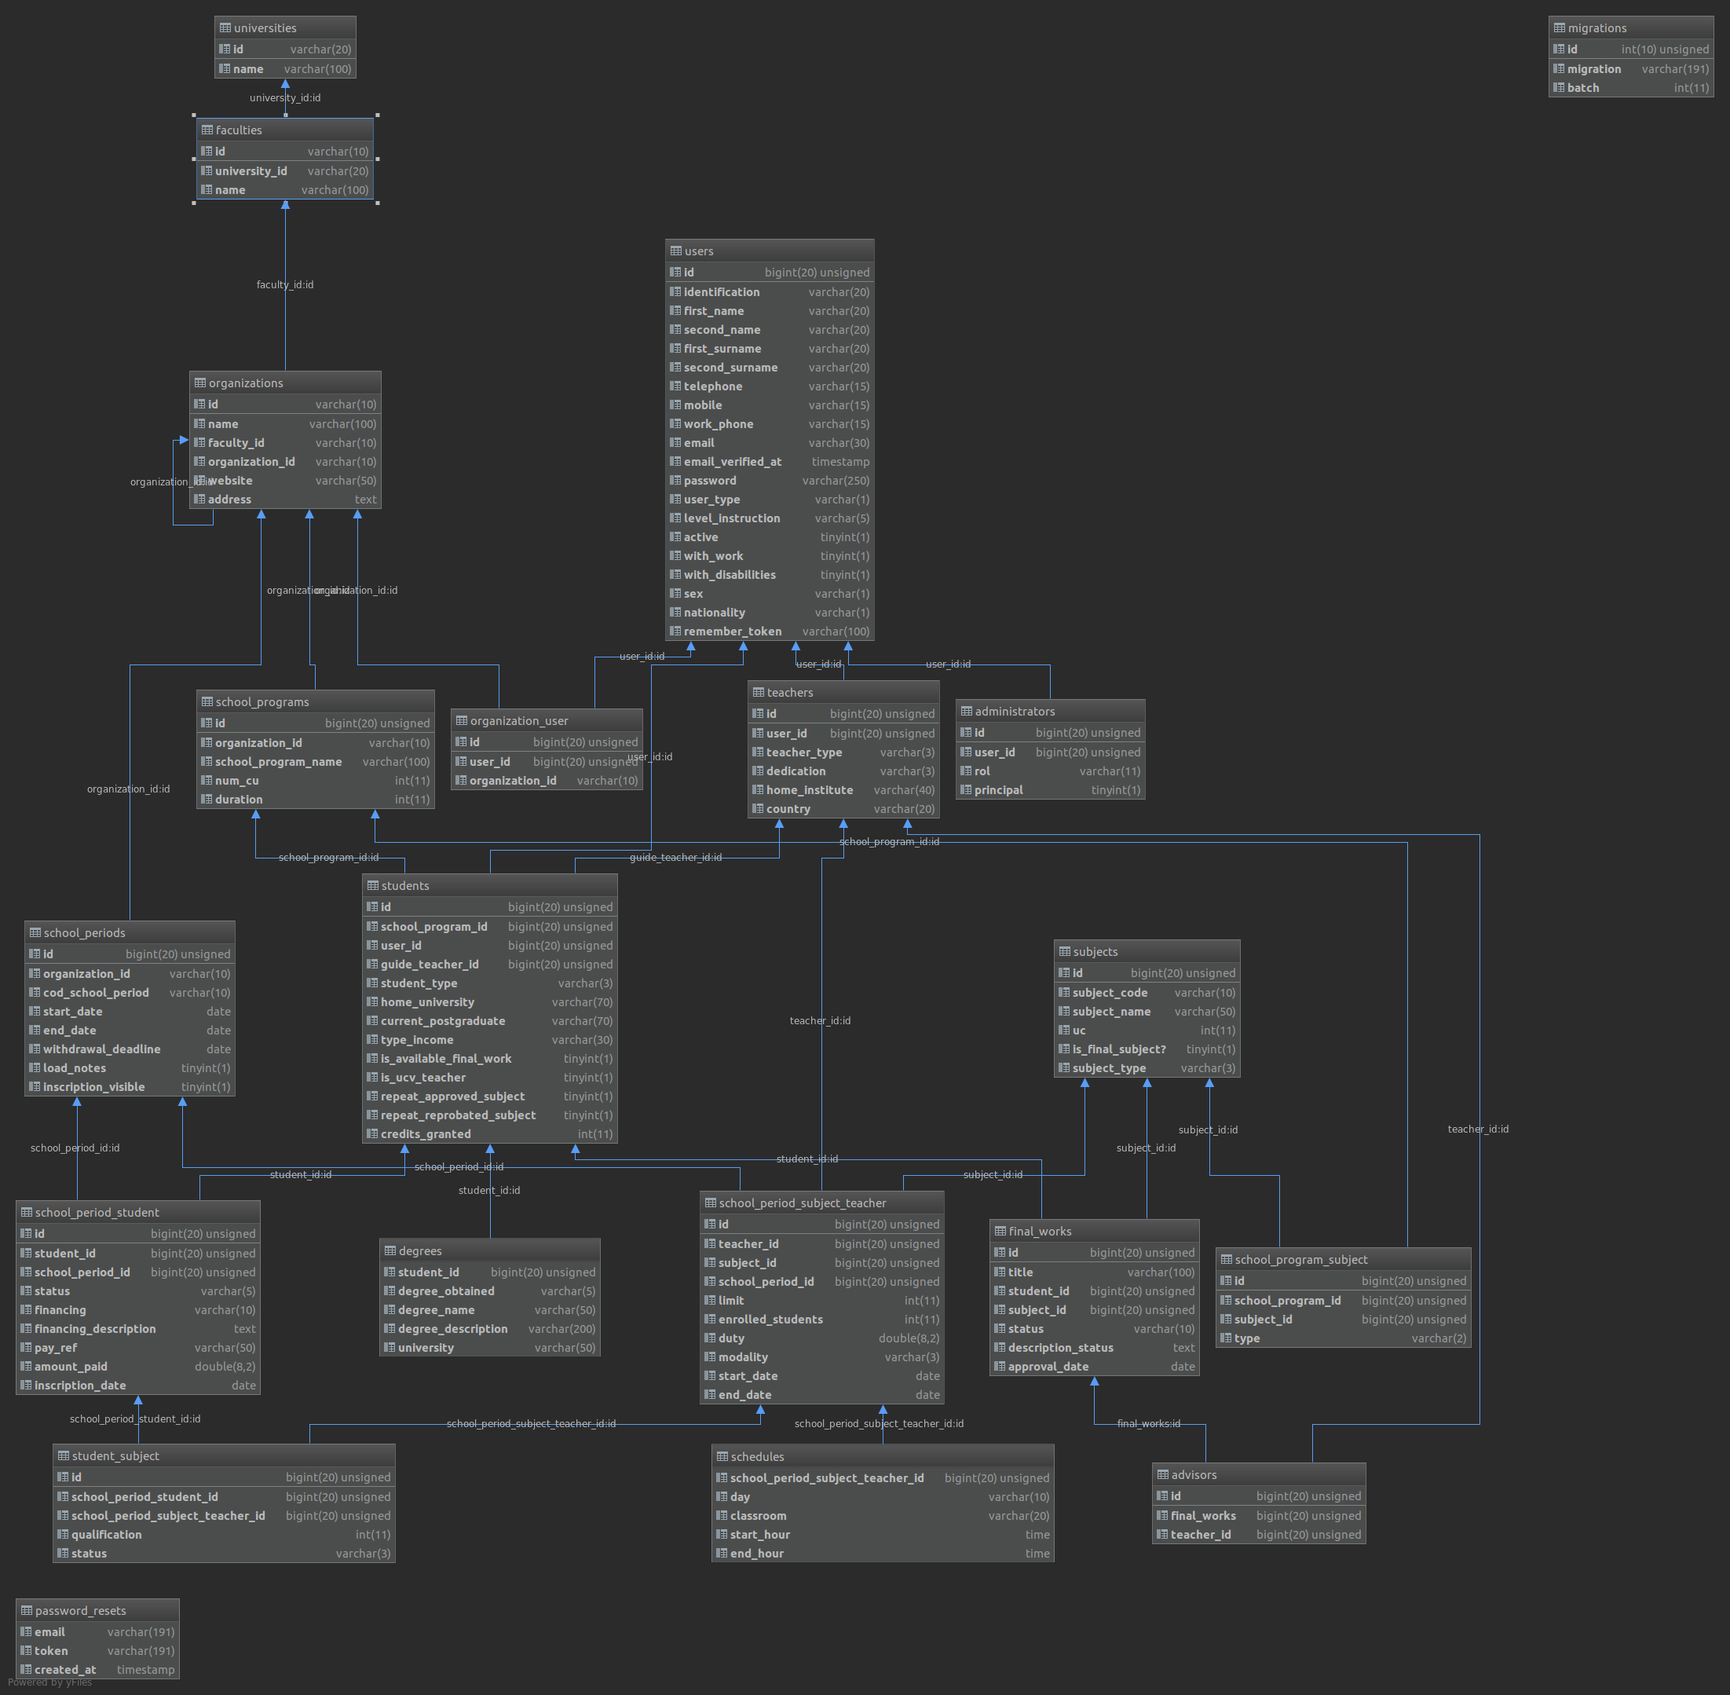
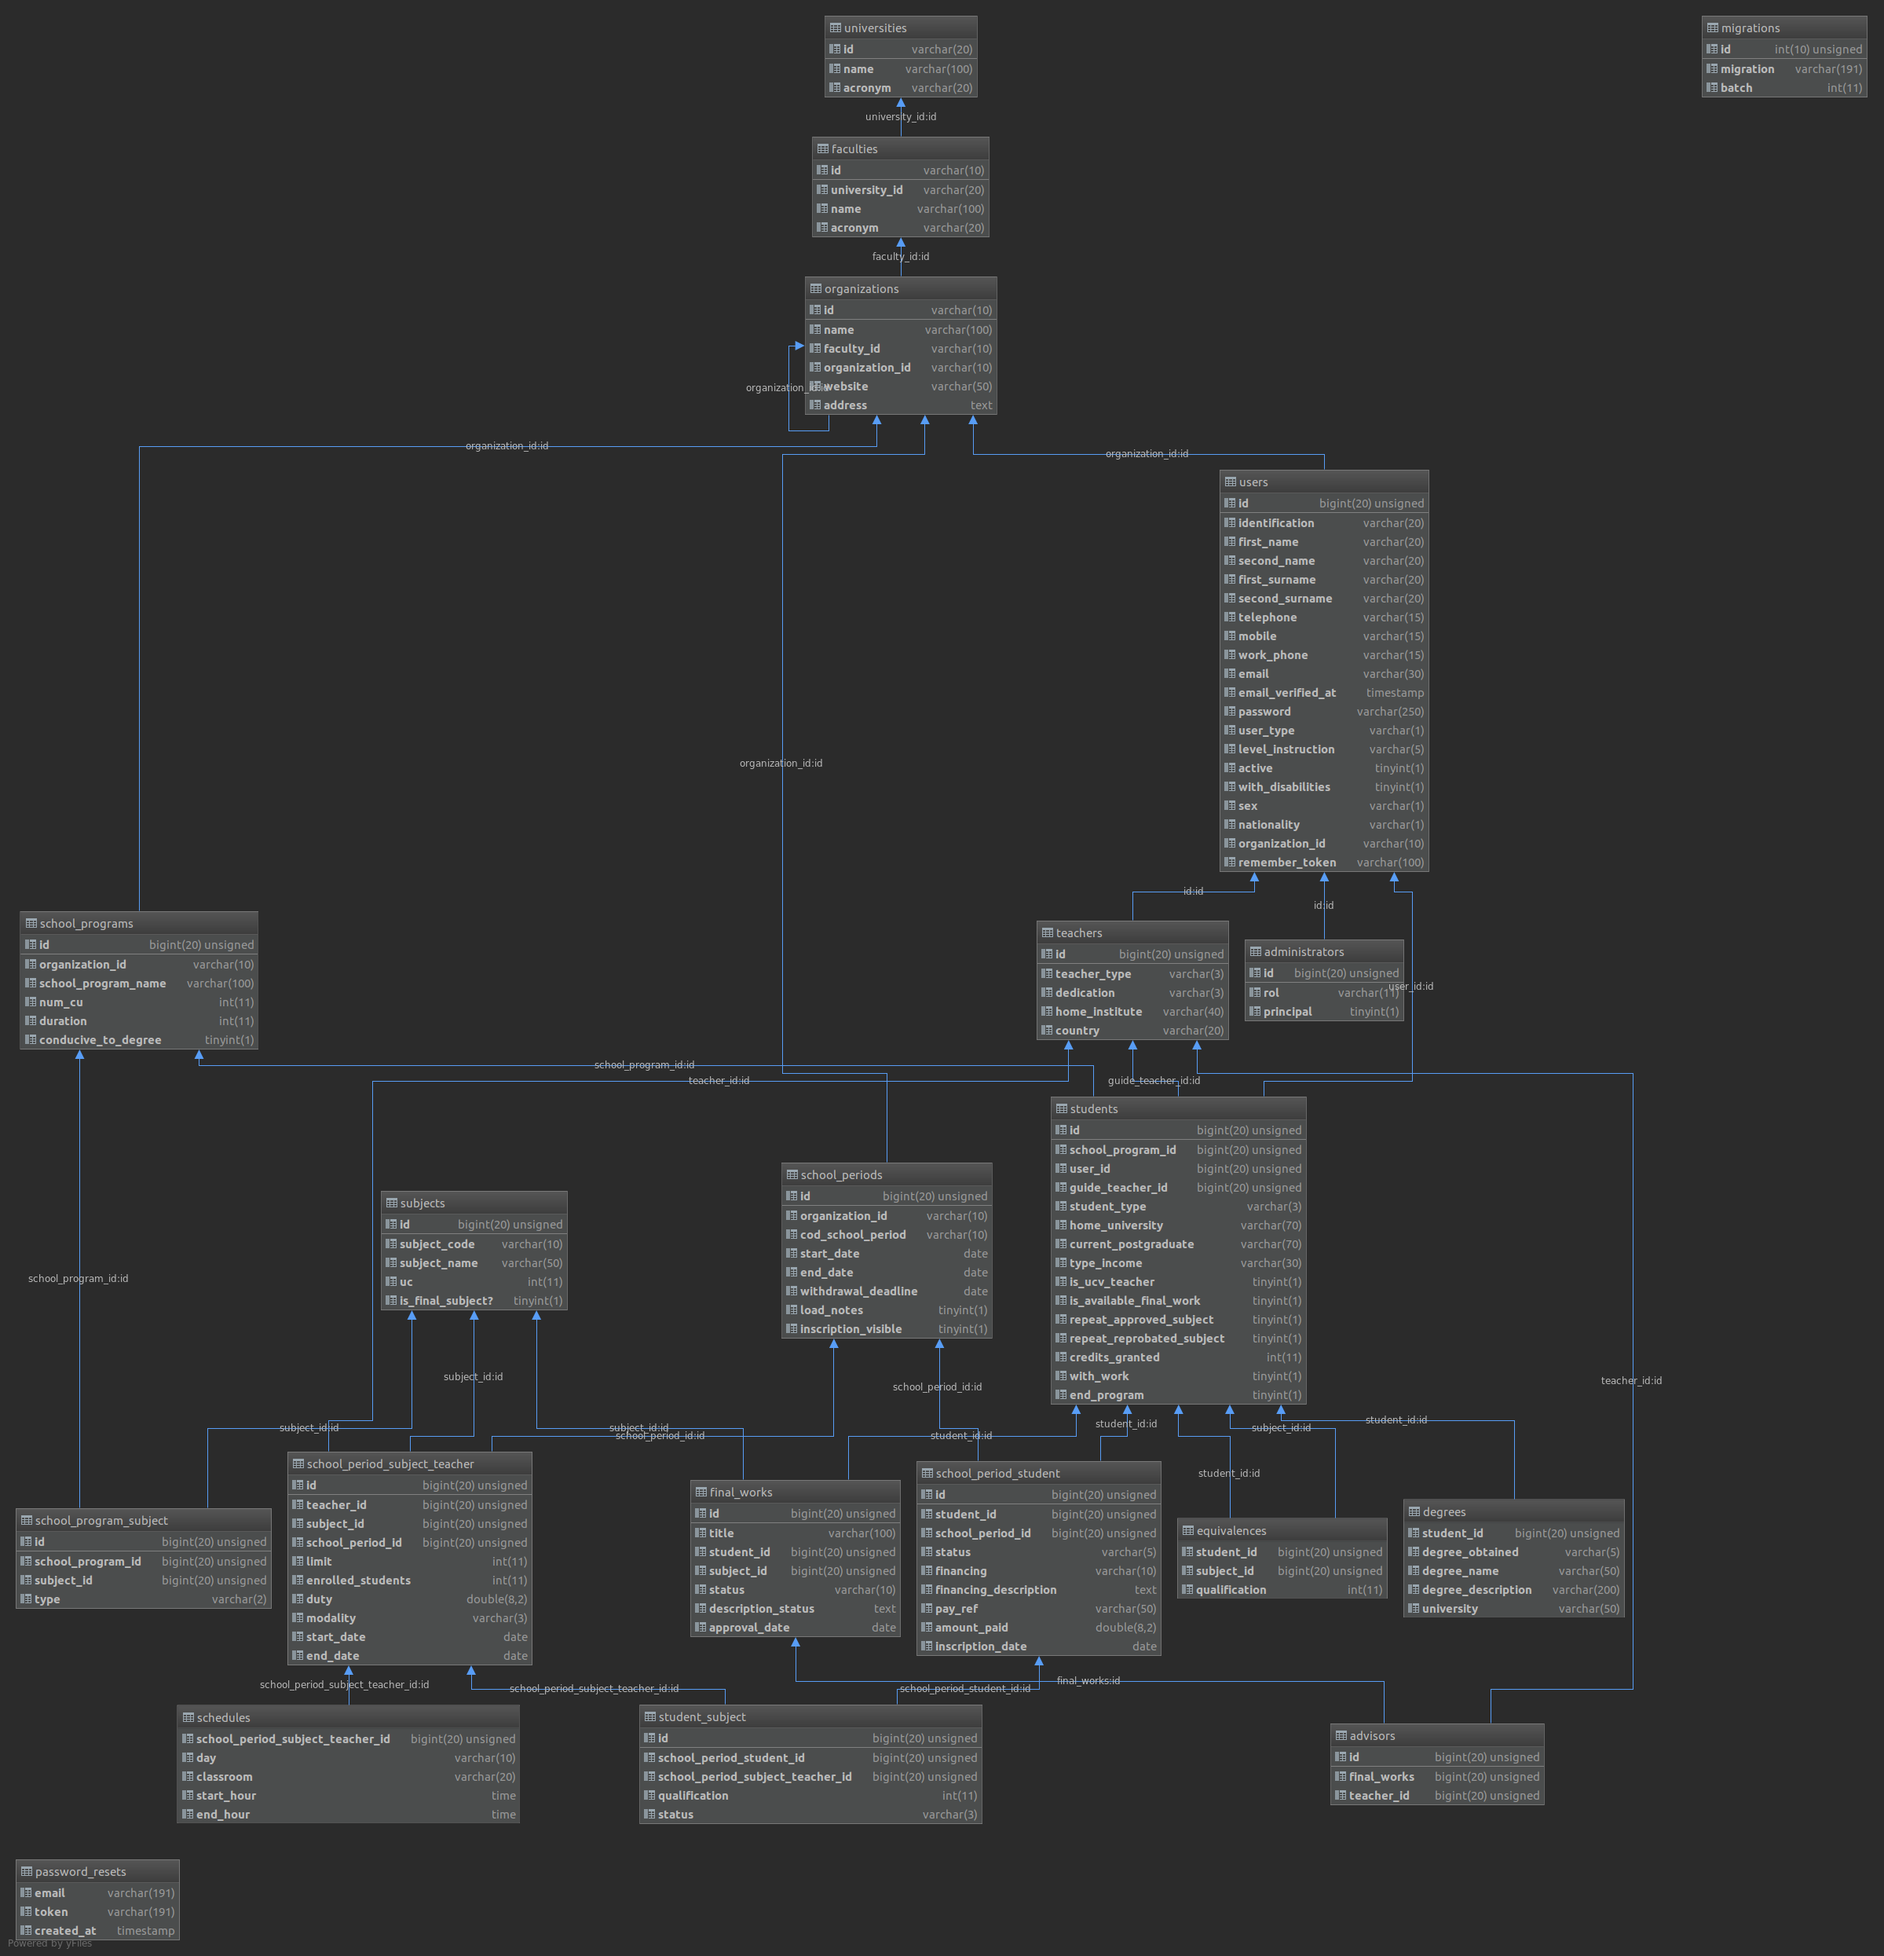
falta shoolperiod inscription y constancias

diff --git a/app/Services/UserService.php b/app/Services/UserService.php
@@ -187,16 +187,15 @@ class UserService
     public static function changeUserData(Request $request)
     {
         $organizationId = $request->header('organization_key');
-        if (auth()->payload()['user']->id!=$request['id']){
-            return response()->json(['message'=>'Unauthorized'],401);
-        }
         $user=User::getUserById(auth()->payload()['user']->id,auth()->payload()['user']->user_type,$organizationId);
         if (is_numeric($user) && $user ==0){
             return response()->json(['message'=>self::taskError],206);
         }
-        $request['password']=$user[0]['password'];
-        $request['user_type']=$user[0]['user_type'];
-        $result = User::updateUser($request['id'],$request);
+        $user=$user[0];
+        $request['organization_id']=$organizationId;
+        $request['password']=$user['password'];
+        $request['user_type']=$user['user_type'];
+        $result = User::updateUser(auth()->payload()['user']->id,$request);
         if (is_numeric($result) && $result ==0){
             return response()->json(['message'=>self::taskError],206);
         }
@@ -223,6 +222,7 @@ class UserService
             return response()->json(['message'=>self::invalidPassword],206);
         }
         $user=$user->toArray();
+        $user=$user[0];
         $user['password']=Hash::make($request['password']);
         if ($user['user_type']=='A'){
             unset($user['administrator']);

diff --git a/database/seeds/SchoolProgramsTableSeeder.php b/database/seeds/SchoolProgramsTableSeeder.php
@@ -18,21 +18,28 @@ class SchoolProgramsTableSeeder extends Seeder
             'num_cu' => 50,
             'organization_id'=>'G',
             'duration'=>3,
-            'conducive_to_degree'=>true
+            'conducive_to_degree'=>true,
+            'min_duration'=>2,
+            'min_num_cu_final_work'=>8
+
         ]);
         SchoolProgram::create([
             'school_program_name' => 'Especializacion en Computacion',
             'num_cu' => 50,
             'organization_id'=>'C',
             'duration'=>3,
-            'conducive_to_degree'=>true
+            'conducive_to_degree'=>true,
+            'min_duration'=>2,
+            'min_num_cu_final_work'=>8
         ]);
         SchoolProgram::create([
             'school_program_name' => 'Especializacion de Geoquimica',
             'num_cu' => 10,
             'organization_id'=>'G',
             'duration'=>3,
-            'conducive_to_degree'=>true
+            'conducive_to_degree'=>true,
+            'min_duration'=>2,
+            'min_num_cu_final_work'=>8
         ]);
     }
 }

diff --git a/database/migrations/2019_08_04_201314_create_school_program_table.php b/database/migrations/2019_08_04_201314_create_school_program_table.php
@@ -18,7 +18,13 @@ class CreateSchoolProgramTable extends Migration
             $table->string('organization_id',10);
             $table->string('school_program_name',100);
             $table->integer('num_cu');
+            $table->integer('min_num_cu_final_work')
+                ->default(8);
             $table->integer('duration');
+            $table->integer('min_duration')
+                ->default(2);
+            $table->boolean('grant_certificate')
+                ->default(false);
             $table->boolean('conducive_to_degree')
                 ->default(true);
             $table->foreign('organization_id')

diff --git a/app/Services/SchoolProgramService.php b/app/Services/SchoolProgramService.php
@@ -47,7 +47,10 @@ class SchoolProgramService
             'school_program_name'=>'required|max:100',
             'num_cu'=>'required|numeric',
             'duration'=>'required|numeric',
-            "conducive_to_degree"=>"required|boolean"
+            "conducive_to_degree"=>"required|boolean",
+            'min_duration'=>'numeric|required',
+            'min_num_cu_final_work'=>'numeric|required',
+            'grant_certificate'=>'boolean'
         ]);
     }
 

diff --git a/app/SchoolProgram.php b/app/SchoolProgram.php
@@ -7,7 +7,7 @@ use Illuminate\Support\Facades\DB;
 
 class SchoolProgram extends Model
 {
-    protected $fillable = ['school_program_name','num_cu','organization_id','duration','conducive_to_degree'];
+    protected $fillable = ['school_program_name','num_cu','organization_id','duration','conducive_to_degree','min_num_cu_final_work','min_duration','grant_certificate'];
 
     protected $hidden = ['organization_id'];
 

diff --git a/app/User.php b/app/User.php
@@ -76,7 +76,8 @@ class User extends Authenticatable implements JWTSubject
         return $this->hasMany('App\Student')
             ->with('degrees')
             ->with('guideTeacher')
-            ->with('equivalence');
+            ->with('equivalence')
+            ->with('schoolProgram');
     }
 
     public function administrator()

diff --git a/app/Student.php b/app/Student.php
@@ -35,6 +35,11 @@ class Student extends Model
         return $this->hasMany('App\Equivalence');
     }
 
+    public function schoolProgram()
+    {
+        return $this->belongsTo('App\SchoolProgram');
+    }
+
     public static function addStudent($student)
     {
         try{
